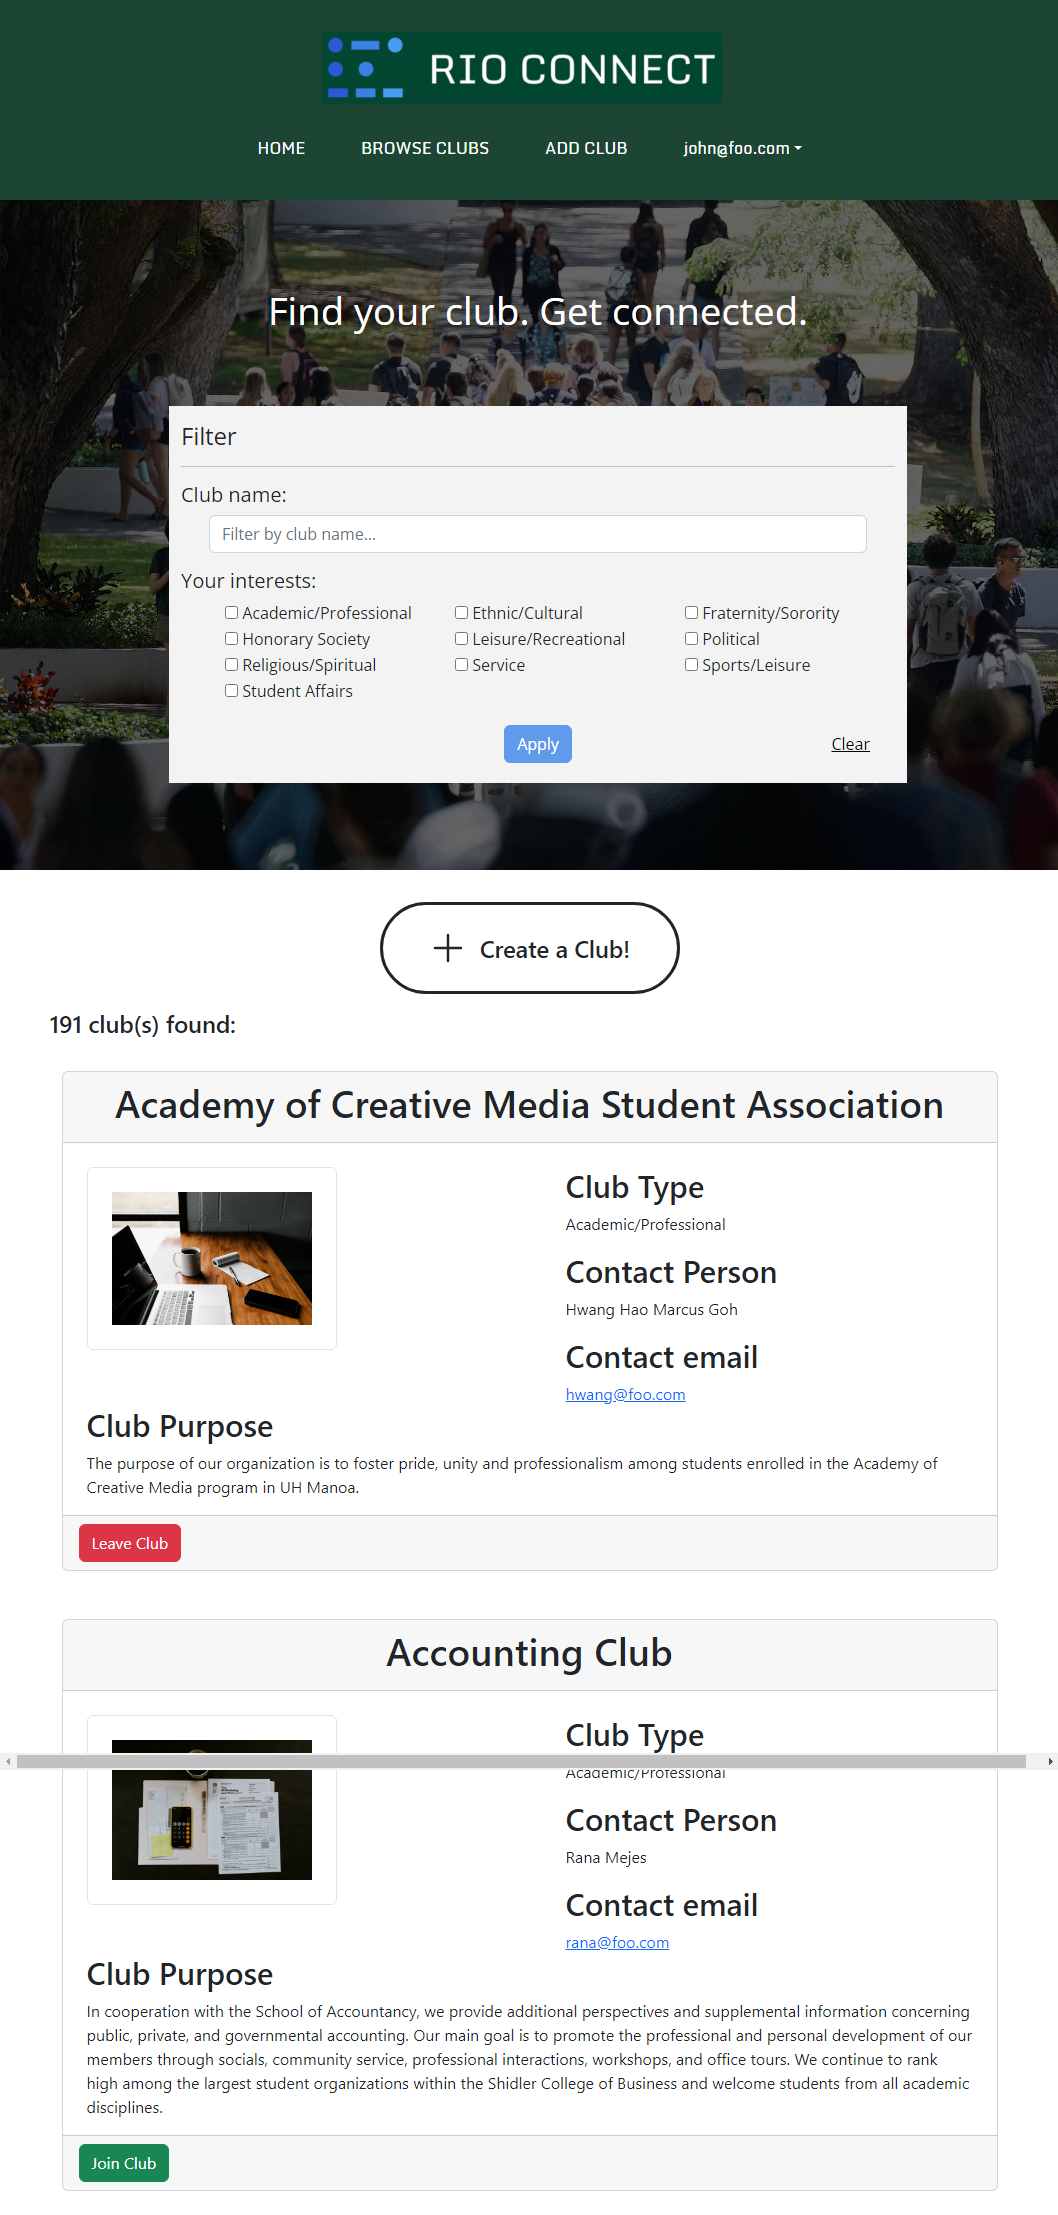
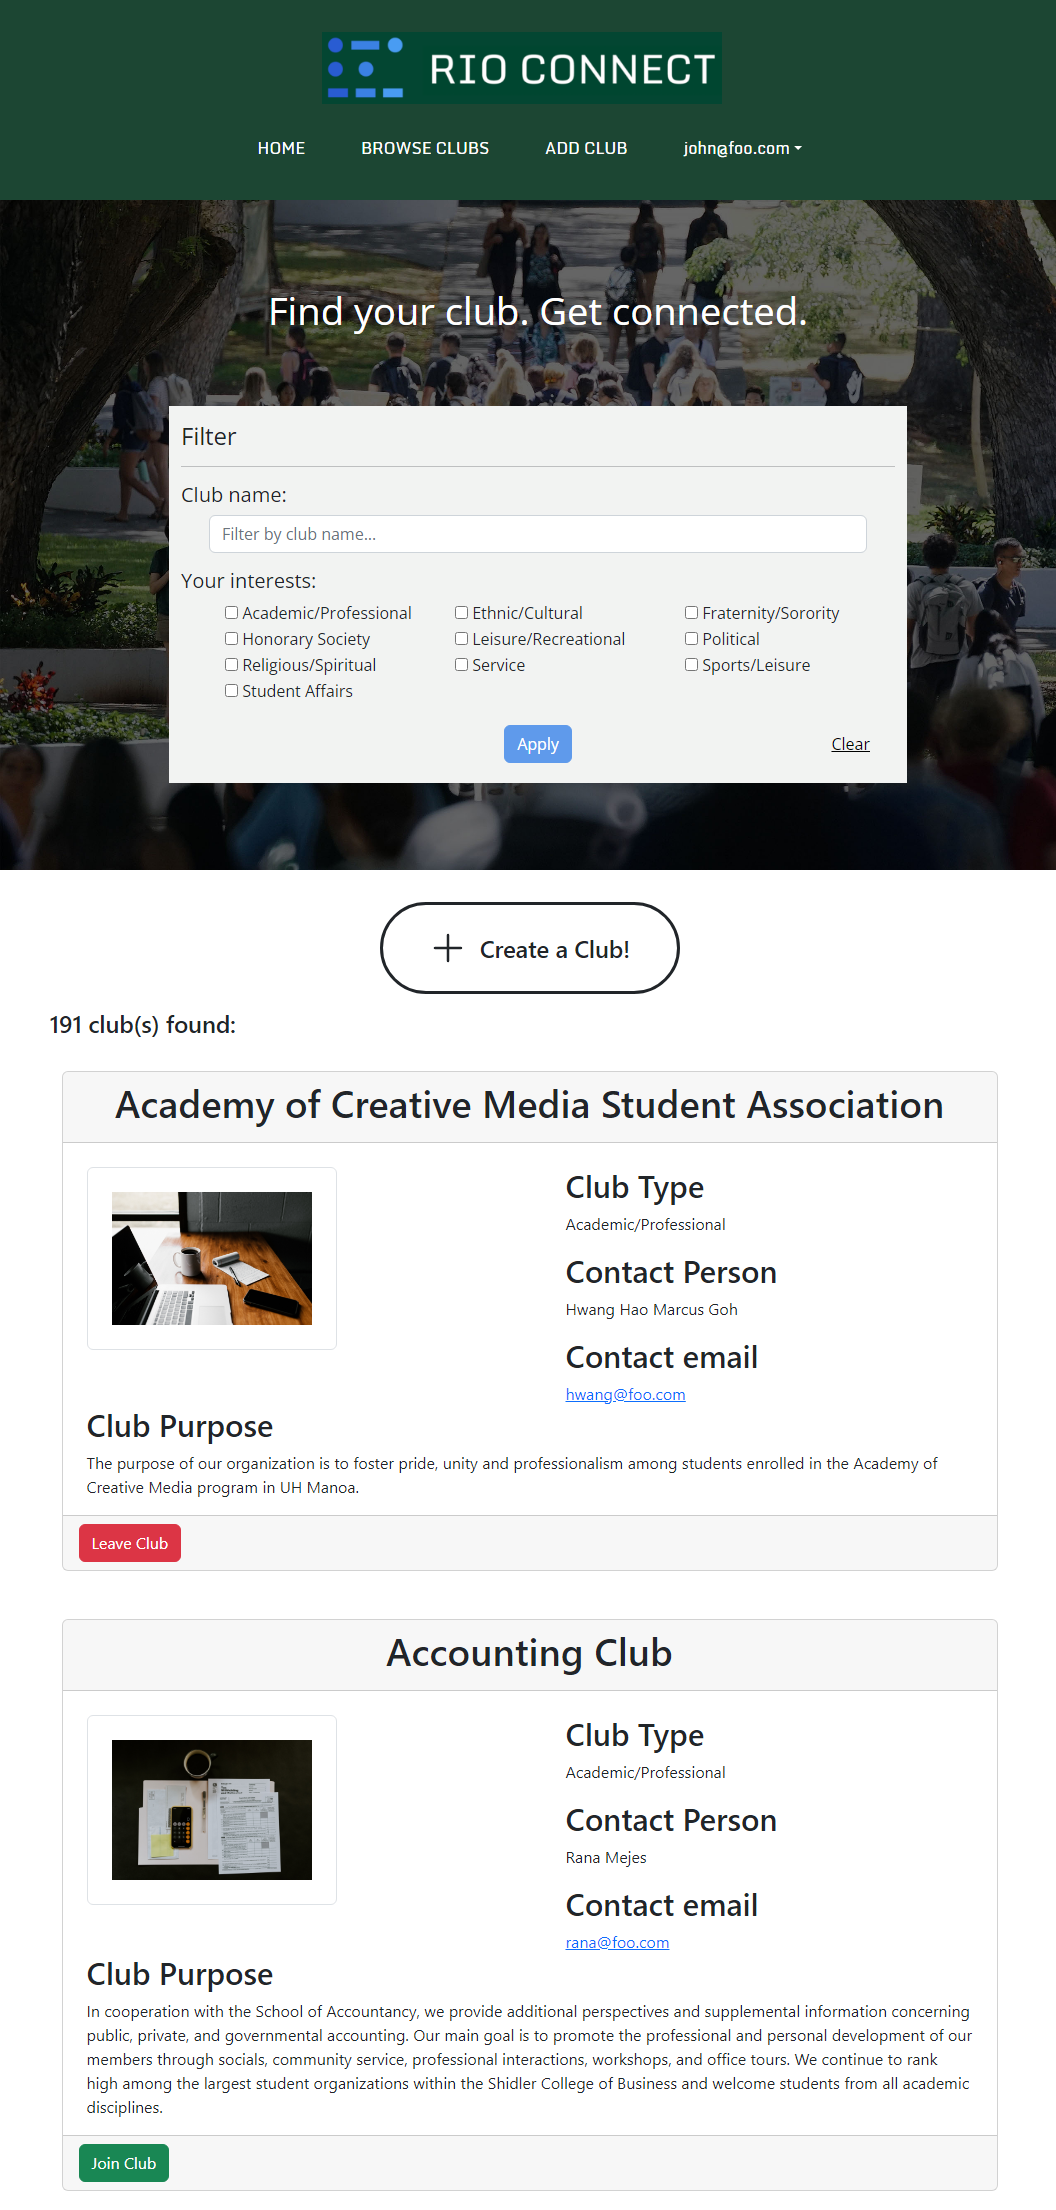
fix image and typos

diff --git a/projects/rio-connect.md b/projects/rio-connect.md
@@ -13,7 +13,7 @@ summary: "I was part of a team that developed a webapp that would connect UH Man
 
 <img class="img-fluid" src="../img/rio-connect/rio-connect-logo.png">
 
-[RIO Connect](https://rio-connect.com/) is a website made to connect students and clubs at the University of Hawaii at Manoa. Registered Independent Organizations (RIOs) are student-run clubs at UH Manoa. This was a group project for ICS 314, Software Engineering, and I was a member of a five-person team developing this website. My contributions to the project were the user page
+[RIO Connect](https://rio-connect.com/) is a website made to connect students and clubs at the University of Hawaii at Manoa. Registered Independent Organizations (RIOs) are student-run clubs at UH Manoa. This was a group project for ICS 314, Software Engineering, and I was a member of a five-person team developing this website. My contributions to the project were the user page, browse clubs page, and writing tests.
 
 ## User Page
 My primary contribution to the project was the design of the user page, which holds information about the currently logged in user and the clubs they are a member of. The top-level UserPage holds references to the user's profile data and their club data, and passes that data to its child components. 
@@ -23,7 +23,7 @@ There are two child components: one for the user's profile information, and anot
 The profile component holds the user's profile picture (a placeholder image) and a form pre-filled with the user's profile information. Changing either the name of phone number fields and pressing "Update Profile" would invoke a callback function that would update the user's profile information in the parent UserPage.
 
 The clubs list component holds a list of all the clubs that the user has joined. The list component is in fact a list of club card components, which define the look of each entry in the list. This club card contains the name of the club, its description, and a link to email the owner of the club. Additionally, there are two buttons:
-- If the user owns the club, they can see an "Edit Club" button, which links to the edit club page for that particular club.
+- If the user owns the club, they see an "Edit Club" button, which links to the edit club page for that particular club.
 - A button to leave the club. Pressing this button invokes a callback function that deletes the user's username from the club's roster. The user's clubs list is then updated, reflecting the deleted club.
 
 Below is a screenshot of the user page.
@@ -37,7 +37,7 @@ There are two child components: one for the club filtering, and another for the 
 
 The club filter is a form that allows the user to specify which clubs they are interested in seeing. When the fields are set and the "Apply" button is pressed, a callback function is invoked that passes the filter criteria to the parent BrowseClubsPage. This criteria is then passed to the clubs list to be applied on all clubs.
 
-The clubs list contains club cards that contain information on clubs. It filters the clubs it displays using the criteria passed into it from the parent BrowseClubsPage. Each club card in the list has the club's name, type, owner's name and email address, and description. If the user is logged in, there is also a button to join or leave the club corresponding with the user's status in that club. Pressing that button will invoke a callback function that writes or deletes that user's username from the club roster as appropriate.
+The clubs list contains club cards that contain information on clubs. It filters the clubs it displays using the criteria passed into it from the parent BrowseClubsPage. Each club card in the list has the club's name, type, owner's name and email address, and description. If the user is logged in, there is also a button to join or leave the club corresponding to the user's status in that club. Pressing that button will invoke a callback function that writes or deletes that user's username from the club roster as appropriate.
 
 Below is a screenshot of the browse clubs page.
 
@@ -56,7 +56,7 @@ I also wrote tests for the user page using TestCafe. These tests ensured that th
 
 The tests were designed to be invariant, that is, any changes made during the test were restored to their original state after the test. This ensures that following tests can work with the same assumptions.
 
-The tests had to deal with many edge cases based on the type of user. For instance, a club owner should not be able to leave a club they own. Doing so triggers an error informing the user that they need to transfer ownership to ensure the club is not orphaned.
+The tests had to deal with edge cases based on the type of user. For instance, a club owner should not be able to leave a club they own. Doing so triggers an error informing the user that they need to transfer ownership to ensure the club is not orphaned.
 
 <img class="img-fluid" src="../img/rio-connect/no-orphan.png">
 
@@ -64,7 +64,7 @@ Similarly, Admins can edit, but are not a member of, any club at all. They shoul
 
 <img class="img-fluid" src="../img/rio-connect/admin-clubs.png">
 
-These tests are run locally before being uploaded to GitHub. They are then run using GitHub Actions as part of a Continuous Integration (CI) pipeline to verify code standards are being met. I encountered issues with my tests using GitHub Actions, which was due to their complexity. Initially, my tests would navigate across multiple pages, which led to failures due to loading timeouts. I simplified and reduced the scope of my tests to ensure that the tests passed in a reasonable amount of time while still thoroughly testing functionality. 
+These tests were run locally before being uploaded to GitHub. They are then run using GitHub Actions as part of a Continuous Integration (CI) pipeline to verify code standards are being met. I encountered issues with my tests using GitHub Actions, which was due to their complexity. Initially, my tests would navigate across multiple pages, which led to failures due to loading timeouts. I simplified and reduced the scope of my tests to ensure that the tests passed in a reasonable amount of time while still thoroughly testing functionality. 
 
 <img class="img-fluid" src="../img/rio-connect/local-tests.png">
 
